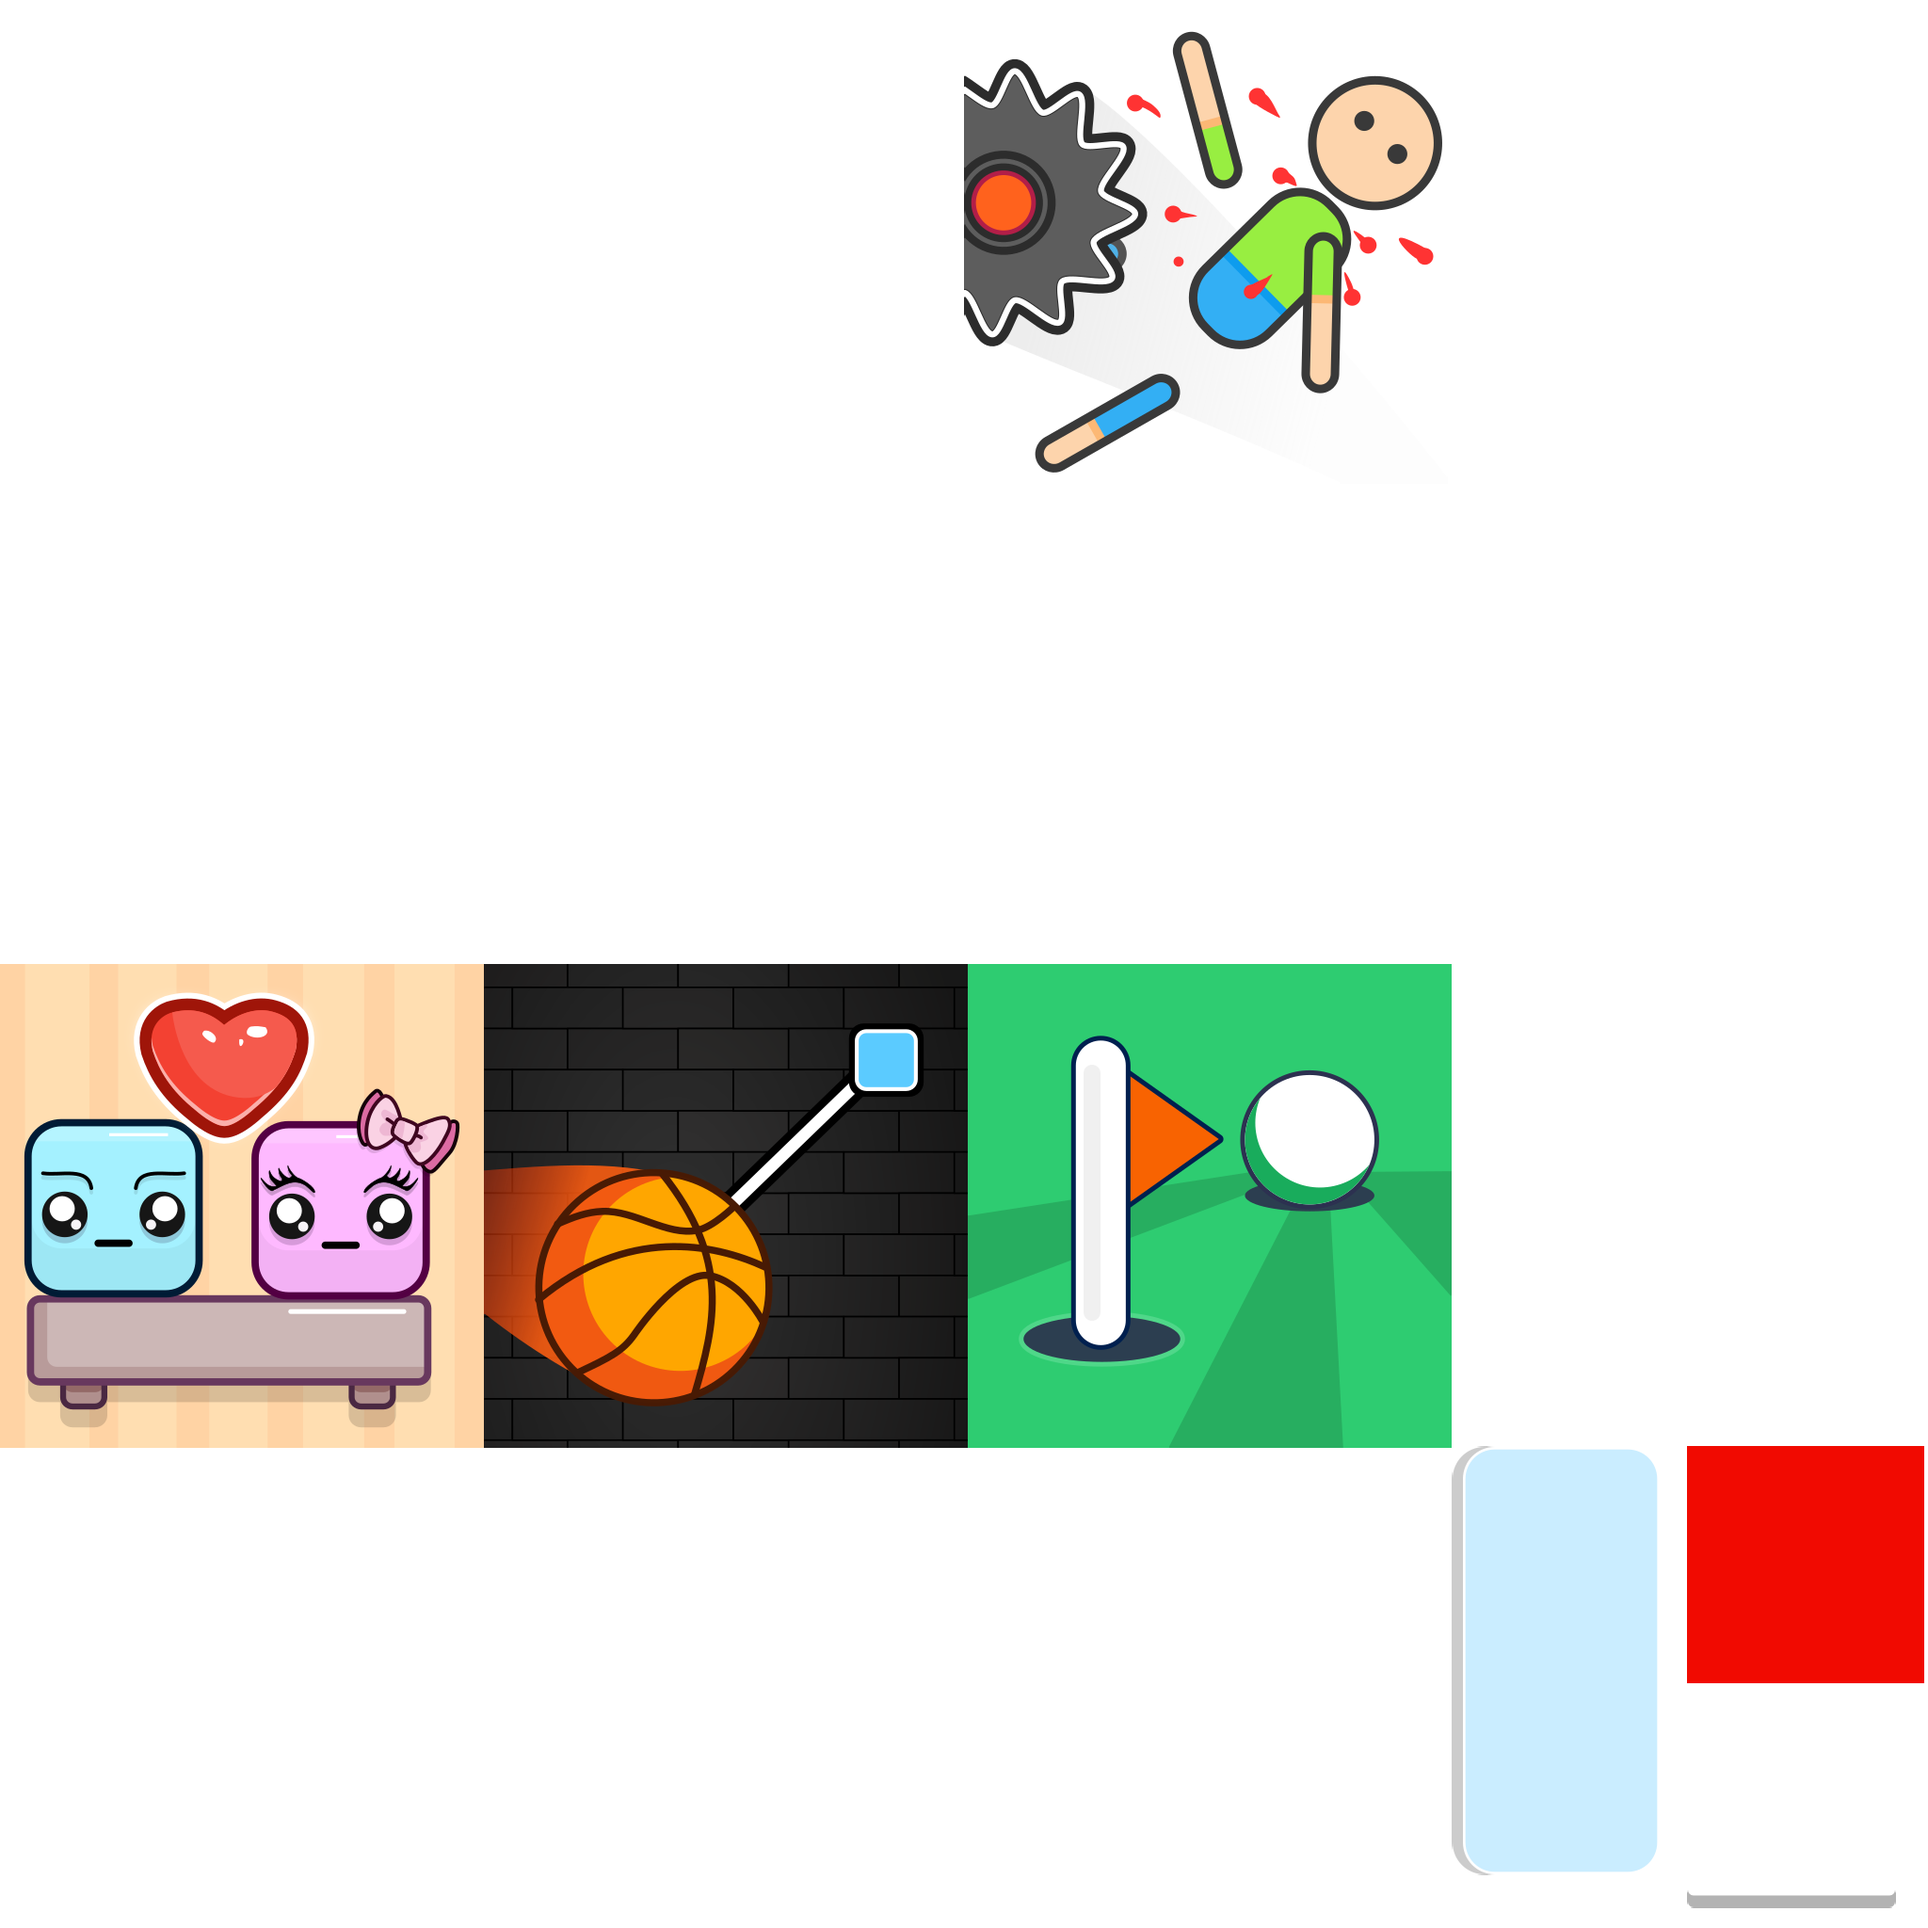
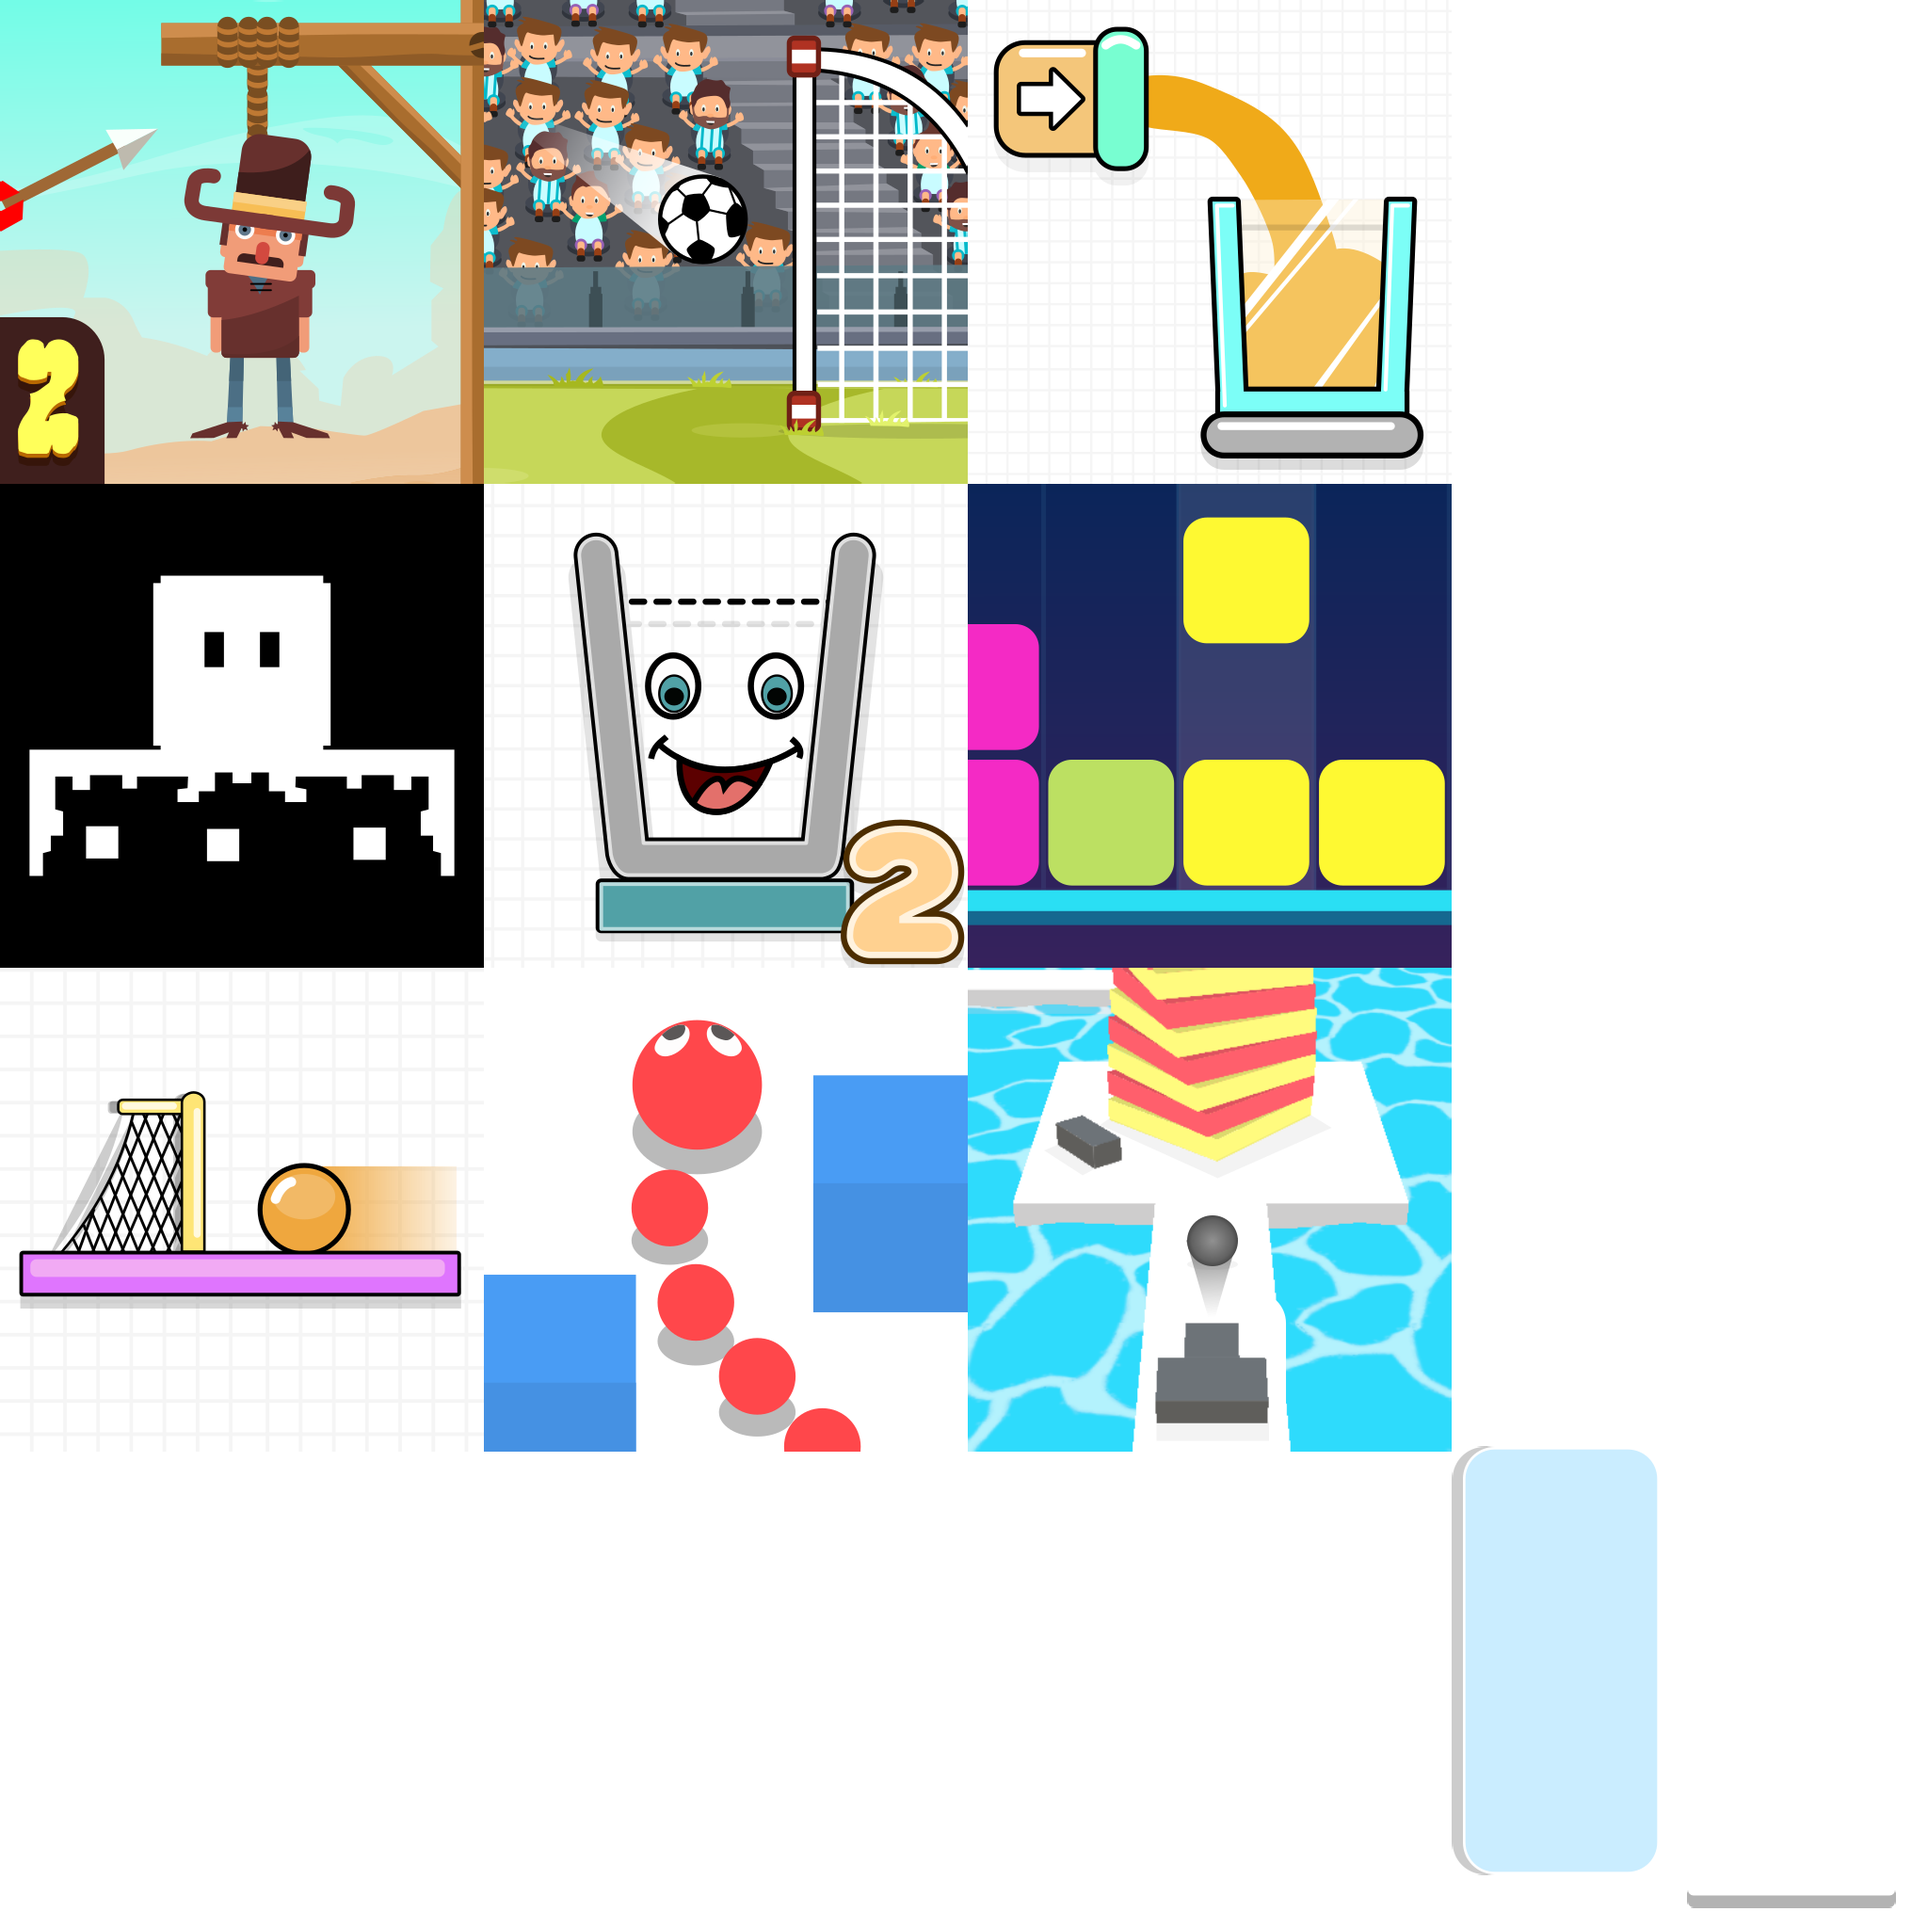
Add files via upload

diff --git a/scripts/c3runtime.js b/scripts/c3runtime.js
@@ -3934,7 +3934,12 @@ self.C3_GetObjectRefTable = function () {
 		C3.Plugins.System.Acts.Wait,
 		C3.Plugins.Button.Acts.SetCSSStyle,
 		C3.Plugins.Text.Acts.SetText,
-		C3.Plugins.iframe.Acts.NavigateURL
+		C3.Plugins.iframe.Acts.NavigateURL,
+		C3.Plugins.iframe.Acts.SetCSSStyle,
+		C3.Plugins.iframe.Acts.SetPos,
+		C3.Plugins.System.Cnds.Compare,
+		C3.Plugins.System.Exps.viewportheight,
+		C3.Plugins.iframe.Acts.SetSize
 	];
 };
 self.C3_JsPropNameTable = [
@@ -3942,10 +3947,38 @@ self.C3_JsPropNameTable = [
 	{pocket_golf: 0},
 	{cut_and_dunk: 0},
 	{kill_the_dummy: 0},
+	{gravity_soccer_3: 0},
+	{neon_war: 0},
+	{rotated_cups: 0},
+	{jump_color: 0},
+	{draw_racing: 0},
+	{power_light: 0},
+	{bubble_pop: 0},
+	{cannon_strike: 0},
+	{draw_parking: 0},
+	{rope_master: 0},
+	{xtreme_racing: 0},
+	{tap_tap_shots: 0},
+	{ragdoll_fall: 0},
+	{smiling_glass: 0},
+	{ball_runner: 0},
+	{chicken_climbing: 0},
+	{smash_color: 0},
+	{tap_tap_colors: 0},
+	{fast_balls: 0},
+	{snake_rush: 0},
+	{spin_soccer_3: 0},
+	{breacking_blocks: 0},
+	{smiling_glass_2: 0},
+	{pixel_dash: 0},
+	{cocktail_brain: 0},
+	{tap_tap_goal: 0},
+	{save_the_cowboy_2: 0},
 	{nIndex: 0},
 	{titulo: 0},
 	{link: 0},
 	{descripcion: 0},
+	{orientacion: 0},
 	{game_conteiner: 0},
 	{Touch: 0},
 	{Browser: 0},
@@ -3963,6 +3996,8 @@ self.C3_JsPropNameTable = [
 	{Button: 0},
 	{btnPlayGame: 0},
 	{Text: 0},
+	{iframe_vertical: 0},
+	{iframe_horizontal: 0},
 	{Iconos: 0},
 	{TouchPanID: 0},
 	{TouchLastX: 0},
@@ -4098,6 +4133,10 @@ self.C3_ExpressionFuncs = [
 		},
 		p => {
 			const n0 = p._GetNode(0);
+			return () => n0.ExpObject("orientacion/text()");
+		},
+		p => {
+			const n0 = p._GetNode(0);
 			return () => (n0.ExpObject() - 10);
 		},
 		() => "TOUCH and DRAG",
@@ -4152,6 +4191,7 @@ self.C3_ExpressionFuncs = [
 			return () => (f0("Main") - (n1.ExpObject() / 2));
 		},
 		() => -9999,
+		() => 0.2,
 		() => 0.01,
 		() => "background-color",
 		() => "rgb(255, 203, 5)",
@@ -4164,7 +4204,14 @@ self.C3_ExpressionFuncs = [
 		() => "color",
 		() => "white",
 		() => "font",
-		() => "21px Arial"
+		() => "21px Arial",
+		() => 90000,
+		() => "vertical",
+		p => {
+			const f0 = p._GetNode(0).GetBoundMethod();
+			return () => f0(0);
+		},
+		() => "horizontal"
 ];
 
 
